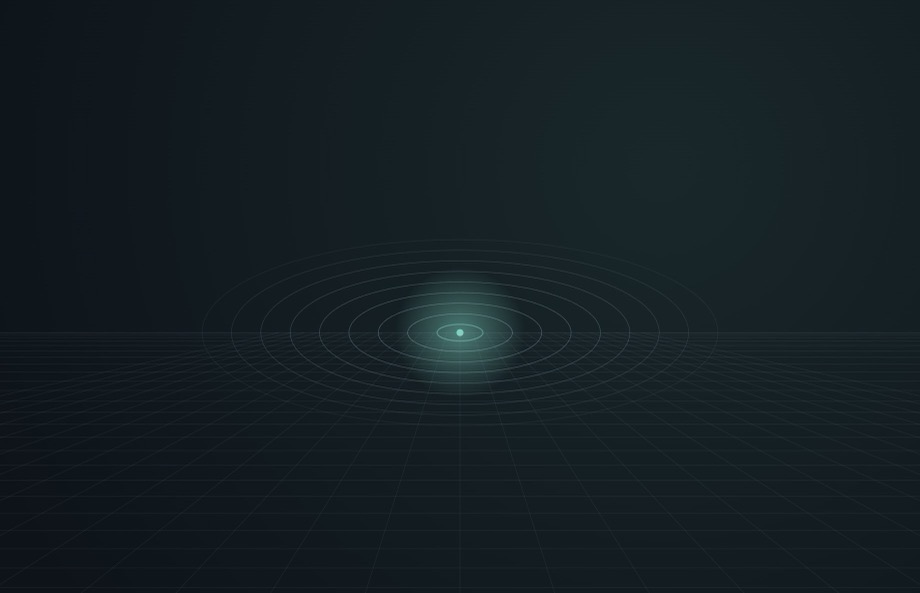
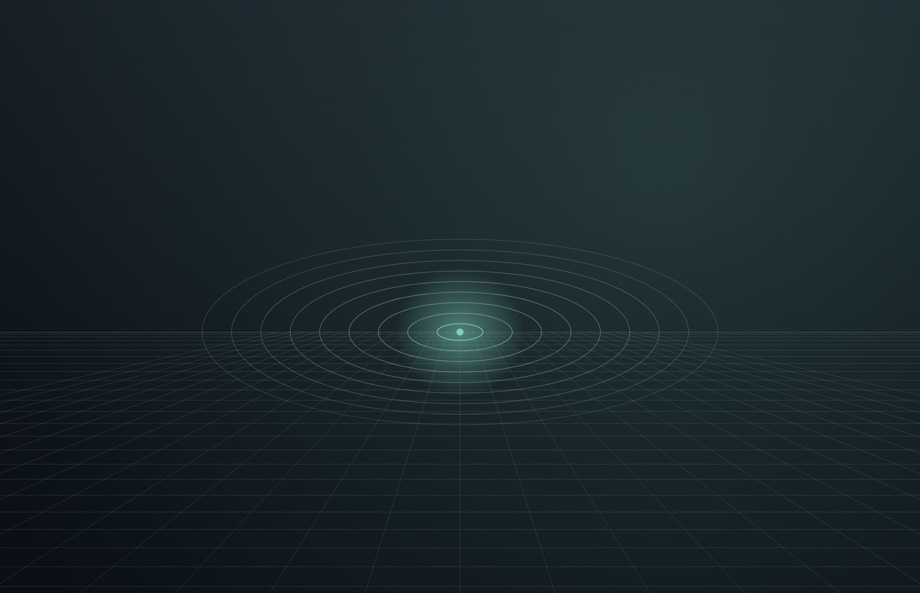
fix(TVX-027): make the panel artwork actually legible
All four pieces were drawn at alphas between 0.1 and 0.5 over a flat #0d1319
ground, then JPEG-encoded. At panel size on a white page the result read as
four black rectangles: the motifs are there in the source, but nothing in them
survived to the screen. The concepts were never the problem.

The ground is now a vertical gradient rather than one flat tone, so a panel
reads as a lit surface instead of a hole punched in the layout, and every
motif's alpha is raised: wave streaks, the three language grids, the isometric
lattice and the signal rings all resolve at 920x593 now.

Regenerated from scripts/artgen.html at 2x and downscaled, same as before.

Changed region(s): [[0.5478, 0.6071, 0.5783, 0.6374], [0.5174, 0.4553, 0.5478, 0.4857]]

diff --git a/scripts/artgen.html b/scripts/artgen.html
@@ -40,9 +40,15 @@
       const COOL = [176, 208, 222];
 
       function bg() {
-        x.fillStyle = BG;
+        // A vertical lift, not a flat fill: at panel size on a white page a
+        // single near-black tone reads as a hole punched in the layout.
+        const v = x.createLinearGradient(0, 0, 0, H);
+        v.addColorStop(0, "#161d25");
+        v.addColorStop(0.55, BG);
+        v.addColorStop(1, "#0a0f14");
+        x.fillStyle = v;
         x.fillRect(0, 0, W, H);
-        // Subtle corner glow so the flat ground is not dead.
+        // Corner glow so the ground is not dead.
         const g = x.createRadialGradient(
           W * 0.72,
           H * 0.28,
@@ -51,7 +57,7 @@
           H * 0.28,
           W * 0.8,
         );
-        g.addColorStop(0, "rgba(131,214,196,0.10)");
+        g.addColorStop(0, "rgba(131,214,196,0.17)");
         g.addColorStop(1, "rgba(131,214,196,0)");
         x.fillStyle = g;
         x.fillRect(0, 0, W, H);
@@ -77,7 +83,7 @@
             const py = y0 - (w1 + w2) * (14 + rt * 78);
             if (py < 0 || py > H) continue;
             const crest = (w1 + w2 + 1) / 2;
-            const a = (0.1 + rt * 0.55) * (0.16 + crest * 0.72);
+            const a = (0.17 + rt * 0.72) * (0.22 + crest * 0.86);
             // Streak length grows toward the viewer, which reads as speed.
             const len = 1 + rt * 16 * (0.3 + crest);
             x.fillStyle = rgba(crest > 0.72 ? MINT : COOL, a);
@@ -90,15 +96,15 @@
       function languages() {
         bg();
         const planes = [
-          { dx: -170, dy: 40, col: COOL, a: 0.3, rot: -0.16 },
-          { dx: 0, dy: 0, col: MINT, a: 0.4, rot: 0 },
-          { dx: 170, dy: -40, col: COOL, a: 0.3, rot: 0.16 },
+          { dx: -170, dy: 40, col: COOL, a: 0.44, rot: -0.16 },
+          { dx: 0, dy: 0, col: MINT, a: 0.58, rot: 0 },
+          { dx: 170, dy: -40, col: COOL, a: 0.44, rot: 0.16 },
         ];
         planes.forEach((p) => {
           x.save();
           x.translate(W / 2 + p.dx, H / 2 + p.dy);
           x.rotate(p.rot);
-          x.strokeStyle = rgba(p.col, p.a * 0.5);
+          x.strokeStyle = rgba(p.col, p.a * 0.82);
           x.lineWidth = 1.1;
           const gw = 760,
             gh = 520,
@@ -119,7 +125,7 @@
           for (let gx = -gw / 2; gx <= gw / 2; gx += step) {
             for (let gy = -gh / 2; gy <= gh / 2; gy += step) {
               const d = Math.hypot(gx / (gw / 2), gy / (gh / 2));
-              const a = p.a * Math.max(0, 1 - d) * 1.5;
+              const a = p.a * Math.max(0, 1 - d) * 1.9;
               if (a < 0.02) continue;
               x.fillStyle = rgba(p.col, a);
               x.beginPath();
@@ -141,7 +147,7 @@
         for (let l = 0; l < layers; l++) {
           const lt = l / (layers - 1);
           const s = size * (0.28 + lt * 0.95);
-          const a = 0.5 - lt * 0.36;
+          const a = 0.7 - lt * 0.44;
           const col = l === 2 ? MINT : COOL;
           x.strokeStyle = rgba(col, a);
           x.lineWidth = l === 2 ? 2.1 : 1.2;
@@ -176,7 +182,7 @@
           const px = Math.random() * W,
             py = Math.random() * H;
           const d = Math.hypot((px - cx) / W, (py - cy) / H);
-          const a = Math.max(0, 0.34 - d * 0.6) * Math.random();
+          const a = Math.max(0, 0.44 - d * 0.6) * Math.random();
           if (a < 0.01) continue;
           x.fillStyle = rgba(COOL, a);
           x.fillRect(px, py, 1.4, 1.4);
@@ -189,7 +195,7 @@
         const cx = W * 0.5,
           cy = H * 0.56;
         // Ground grid in perspective.
-        x.strokeStyle = rgba(COOL, 0.1);
+        x.strokeStyle = rgba(COOL, 0.17);
         x.lineWidth = 1;
         for (let i = 0; i <= 26; i++) {
           const t = i / 26;
@@ -209,7 +215,7 @@
         for (let i = 0; i < 9; i++) {
           const t = i / 8;
           const rr = 46 + t * 470;
-          x.strokeStyle = rgba(i === 0 ? MINT : COOL, 0.42 - t * 0.34);
+          x.strokeStyle = rgba(i === 0 ? MINT : COOL, 0.6 - t * 0.4);
           x.lineWidth = i === 0 ? 2.4 : 1.3;
           x.beginPath();
           x.ellipse(cx, cy, rr, rr * 0.36, 0, 0, 6.284);
